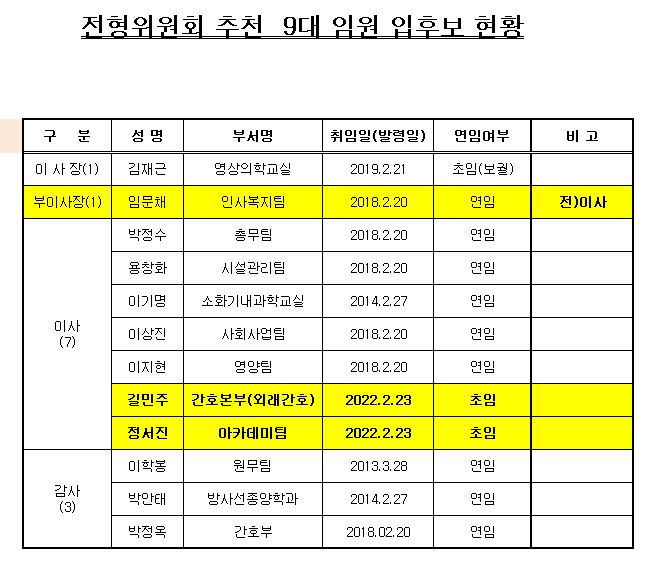
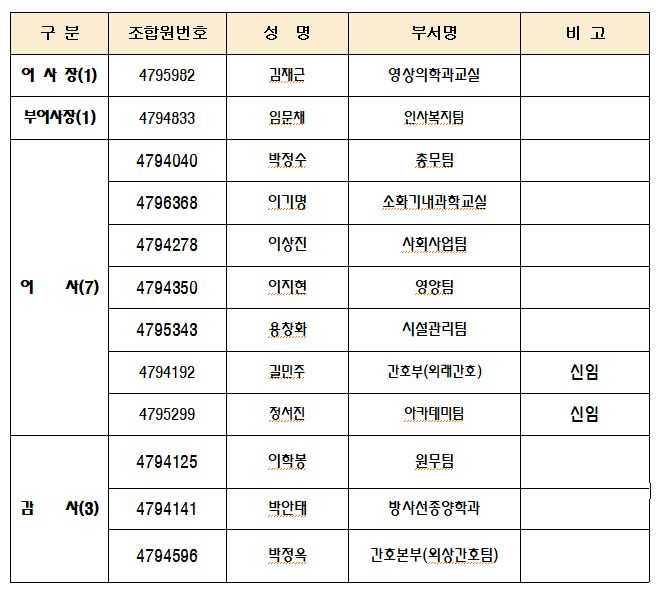
boardmem

diff --git a/meet.html b/meet.html
@@ -290,7 +290,7 @@
               5. 피선거권의 제한사항: 신협법 제28조, 정관 제45조, 제53조, 제54조, 정관부속서 임원선거규약 제8조(피선거권의 제한)위의 사유에 해당하지 않는 자.<br/><br/> 
                  <a href="https://drive.google.com/file/d/172ijzX-6_4wkOSPkEMZahYv-m4YeI72s/view?usp=sharing">※ 임원의 자격 및 피선거권의 제한사항 자세히 보기 (클릭)</a><br/> 
               6. 후보등록기간: 2022. 2. 7(월) 9시 ~ 2.11(금) 17시 / 5일간 <br/><br/> 
-               <!--<a href="#"> ☆ 조합 전형위워회 추천 입후보 현황(선거공보) 보기 </a>-->
+                 <a href="http://ajou9770.github.io/notice/boardmem.html"> ☆ 조합 전형위워회 추천 입후보 현황(선거공보) 보기 </a>
 
               7. 등록신청서류 등 : 입후보자 등록서 1부, 추천서 , 승낙서 확인서 등 [자세한 사항은 신협 선거관리위원회(원내☏ 4939)에 문의]<br/><br/>
               
@@ -331,7 +331,7 @@
                 관련하여 궁금하신 사항이나 추가 자료가 필요하신 경우 아래로 의견을 보내 주시거나 신협(☎6438)으로 연락 바랍니다. <br/>
                 감사 합니다. <br/><br/>-->
                 
-               <!--<a href="#">☞ 총회리플릿 보기 <i class="fas fa-chevron-right fa-lg"></i></a><br/>-->
+               <a href="https://drive.google.com/file/d/1MJk7KiWm0eV8YldNRRsBHZL1mMLZDUdL/view?usp=sharing">☞ 총회리플릿 보기 📑</a><br/>               
                <div class="text"> 상담톡(문의)<br/>
                 <i class="fas fa-sort-down fa-2x"></i></div>
                 <div

diff --git a/sheet.html b/sheet.html
@@ -9,6 +9,7 @@
 <body>
     <img src="img/bs2021.JPG"><br/>
     <img src="img/pl2021.JPG"><br/>
+    <img src="img/7thyear.JPG"><br/>
         <span style="font-size: 35px; font-weight: 600; font-family: 'Segoe UI', Tahoma, Geneva, Verdana, sans-serif;">※ 보다 자세한 내용은 총회리플릿을 참조해 주세요</span><br/>
    <!--<div class="mile">
     ○ 의료원 신협에서는 5월 31일까지만 주문 받습니다.  <br/>
